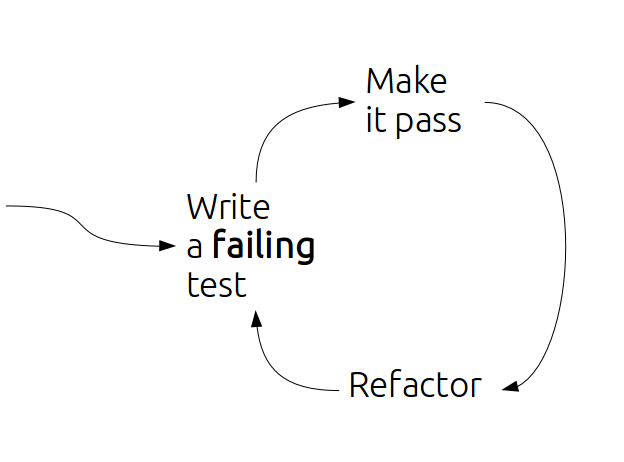
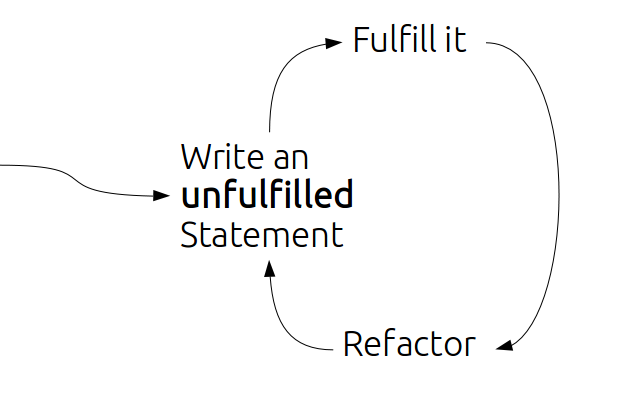
tweaking rakefile

diff --git a/index.html b/index.html
@@ -1,4 +1,4 @@
-<html><head><meta http-equiv="Content-Type" content="text/html;charset=utf-8" /><link href="style.css" rel="stylesheet" type="text/css" /></head><body><div class="calibre" id="calibre_link-13">
+<html><head><meta http-equiv="Content-Type" content="text/html;charset=utf-8" /><link href="style.css" rel="stylesheet" type="text/css" /></head><body><div class="calibre" id="calibre_link-0">
   <h1 class="calibre1">Dedications</h1>
 
   <p class="calibre2"><i class="calibre3">Ad Deum qui laetificat iuventutem meam.</i></p>
@@ -7,7 +7,7 @@
 </div>
 
 
-<div class="calibre" id="calibre_link-7">
+<div class="calibre" id="calibre_link-9">
   <h1 class="calibre1">Part 1: Just&nbsp;the basics</h1>
 
   <p class="calibre2">This is a&nbsp;part where I&nbsp;introduce the basic TDD philosophy and practices (as well as some advanced ones) without going much into object orientation and how to do TDD for systems where multiple objects collaborate together (which is a&nbsp;topic of Part 2).</p>
@@ -18,7 +18,7 @@
 </div>
 
 
-<div class="calibre4" id="calibre_link-3">
+<div class="calibre4" id="calibre_link-6">
   <h1 class="calibre1">Motivation - the first step to learning TDD</h1>
 
   <p class="calibre2">So, you want to learn TDD, huh? First off, let me ask a&nbsp;question ‘why?’.</p>
@@ -53,7 +53,7 @@
 </div>
 
 
-<div class="calibre4" id="calibre_link-1">
+<div class="calibre4" id="calibre_link-3">
   <h1 class="calibre1">The three most essential tools</h1>
 
   <p class="calibre2">Ever watched Karate Kid, either the old version or the new one? The thing they have in common is that when the kid starts learning Karate (or Kung-Fu) from his master, he is given a&nbsp;basic, repetitive task (like taking off a&nbsp;jacket, and putting it on again), not knowing yet where it would lead him. Or look at the first Rocky film (yeah, the one starring Sylvester Stallone), where Rocky was chasing a&nbsp;chicken in order to train agility.</p>
@@ -499,7 +499,7 @@ private Fixture any = new Fixture();
 </div>
 
 
-<div class="calibre4" id="calibre_link-5">
+<div class="calibre4" id="calibre_link-7">
   <h1 class="calibre1">It is not a&nbsp;test</h1>
 
   <p class="calibre2">Up to now, I&nbsp;was cheating on you. I&nbsp;told you that the little executable snippets of code are ‘tests’ and that they’re here to ‘check’ or ‘verify’ something. Now it is time to reveal the truth.</p>
@@ -600,7 +600,7 @@ Assert.True(reporting.CanBePerformedBy(anyPowerUser));
 </div>
 
 
-<div class="calibre4" id="calibre_link-9">
+<div class="calibre4" id="calibre_link-11">
   <h1 class="calibre1">Statement-First programming</h1>
 
   <h2 id="calibre_link-37" class="calibre5">What is The Point of Writing Specification After The Fact?</h2>
@@ -613,11 +613,11 @@ Assert.True(reporting.CanBePerformedBy(anyPowerUser));
 
   <p class="calibre2">Reading so much about cycles, it is probably no surprise to you that the traditional illustration of the TDD process is modeled visually as a&nbsp;circle-like flow:</p>
 
-  <p class="calibre2"><img alt="Traditional_TDD_cycle" src="images/000003.png" class="calibre7" /></p>
+  <p class="calibre2"><img alt="Traditional_TDD_cycle" src="images/000002.png" class="calibre7" /></p>
 
   <p class="calibre2">Note that the above form uses the traditional terminology of TDD, so before I&nbsp;explain the steps, I&nbsp;will translate it to use our terms of Specification and Statements:</p>
 
-  <p class="calibre2"><img alt="Modern_TDD_cycle" src="images/000004.png" class="calibre7" /></p>
+  <p class="calibre2"><img alt="Modern_TDD_cycle" src="images/000003.png" class="calibre7" /></p>
 
   <p class="calibre2">The second version seems more like common sense than the first one - specifying how something should behave before putting that behavior in place is way more intuitive than testing something that does not exist.</p>
 
@@ -1746,7 +1746,7 @@ ShouldDisplayOnlyOneZeroDigitWhenItIsTheOnlyEnteredDigitEvenIfItIsEnteredMultipl
 </div>
 
 
-<div class="calibre4" id="calibre_link-10">
+<div class="calibre4" id="calibre_link-13">
   <h1 class="calibre1">How to start?</h1>
 
   <p class="calibre2">Whenever I&nbsp;sat down with a&nbsp;person that was about to write their first code in a&nbsp;Statement-first manner, the person would first stare at the screen, then at me, then would say: “what now?”. It is easy to say: “You know how to write code, you know how to write a&nbsp;unit test for it, just this time start with the latter rather than the first”, but for many people, this is something that blocks them completely. If you are one of them, do not worry - you are not alone. I&nbsp;decided to dedicate this chapter solely to techniques for kicking off a&nbsp;Statement when there is no code.</p>
@@ -2106,7 +2106,7 @@ public void TODO()
 </div>
 
 
-<div class="calibre4" id="calibre_link-12">
+<div class="calibre4" id="calibre_link-16">
   <h1 class="calibre1">How is TDD about analysis and what does “GIVEN-WHEN-THEN” mean?</h1>
 
   <h2 id="calibre_link-64" class="calibre5">Is there really a&nbsp;commonality between analysis and TDD?</h2>
@@ -2295,7 +2295,7 @@ public void ShouldThrowExceptionWhenAskedToStoreNull()
 </div>
 
 
-<div class="calibre4" id="calibre_link-8">
+<div class="calibre4" id="calibre_link-10">
   <h1 class="calibre1">Developing TDD style and Constrained Non-Determinism</h1>
 
   <p class="calibre2">In one of the first chapters, I&nbsp;introduced to you the idea of anonymous values generator idea, which I&nbsp;have wrapped in a&nbsp;static class called <code class="calibre11">Any</code>. Throughout the next chapters, you have seen me using it quite extensively in many of the Statements I&nbsp;wrote.</p>
@@ -2548,7 +2548,7 @@ var anonymousInteger = fixture.Create&lt;int&gt;();</pre>
 </div>
 
 
-<div class="calibre4" id="calibre_link-16">
+<div class="calibre4" id="calibre_link-4">
   <h1 class="calibre1">What is the scope of a&nbsp;unit-level Statement in TDD?</h1>
 
   <p class="calibre2">Ha, now I&nbsp;have to admit that I&nbsp;deferred for a&nbsp;long time an answer to a&nbsp;pretty fundamental question: what should be the scope of a&nbsp;single Statement? If I&nbsp;put the whole system together, can I&nbsp;write a&nbsp;Statement for its behavior? Or maybe the other way round - there should be a&nbsp;Statement for each method of each class, including the private ones? Well, first thing I&nbsp;want to explain is that there are multiple levels we can write our Statements on. This varies depending on the TDD authority, but in this book, we will cover two of such levels - unit level and acceptance level. For now, let us stick to the unit level, which is what we have done so far anyway. The time will come for the rest.</p>
@@ -2657,7 +2657,7 @@ ShouldReportItIsStartedAndItDoesNotYetTransmitVoiceWhenItStarts()
 </div>
 
 
-<div class="calibre4" id="calibre_link-11">
+<div class="calibre4" id="calibre_link-14">
   <div class="disclaimer">
     <h3 class="sigilnotintoc2">A Disclaimer</h3>
 
@@ -3277,7 +3277,7 @@ public int SumOfElements()
 </div>
 
 
-<div class="calibre4" id="calibre_link-4">
+<div class="calibre4" id="calibre_link-12">
   <h1 class="calibre1">Part 2: Test-Driven Development in Object Oriented World</h1>
 
   <p class="calibre2">Most of the examples I&nbsp;gave you during the previous part were about a&nbsp;single object that did not have dependencies on other objects (with an exception of some values - strings, integers, enums etc.). This is not how a&nbsp;real OO systems are built. In this part, we are finally going to look at scenarios where multiple objects collaborate together as a&nbsp;system.</p>
@@ -3292,7 +3292,7 @@ public int SumOfElements()
 </div>
 
 
-<div class="calibre4" id="calibre_link-6">
+<div class="calibre4" id="calibre_link-8">
   <h1 class="calibre1">On Objects Composability</h1>
 
   <p class="calibre2">In this chapter, I&nbsp;will try to outline briefly why objects' composability is a&nbsp;goal worth achieving and how it can be achieved. I&nbsp;am going to start with an example of unmaintainable code and will gradually fix its flaws in the next chapters. For now, we are going to fix just one of the flaws, so the code we will end up will not be perfect by any means, still, it will be better by one quality.</p>
@@ -3592,7 +3592,7 @@ public class CompanyPolicies
 </div>
 
 
-<div class="calibre4" id="calibre_link-0">
+<div class="calibre4" id="calibre_link-1">
 <h1 class="calibre1">Telling, not asking</h1>
 
 <p class="calibre2">In this chapter, we'll get back to Johnny and Benjamin as they introduce another change in the code they were given. In the process, they discover the impact that return values and getters have on composability of objects.</p>
@@ -3903,14 +3903,14 @@ if(employee.GetYearsOfService() == 5)
 </div>
 
 
-<div class="calibre" id="calibre_link-14">
+<div class="calibre" id="calibre_link-2">
   <p class="calibre2">&nbsp;1. combinatorial explosion</p>
 
   <p class="calibre2">2. too many classes specified at once</p>
 </div>
 
 
-<div class="calibre4" id="calibre_link-2">
+<div class="calibre4" id="calibre_link-5">
   <ol class="calibre12">
     <li class="calibre13">Need driven development and the principle of least astonishment (perspective of use)</li>
 

diff --git a/style.css b/style.css
@@ -1,3 +1,8 @@
+@page {
+    margin-bottom: 5pt;
+    margin-top: 5pt
+    }
+
 .achievement {
     border-bottom-color: #E1A60A;
     border-bottom-style: double;
@@ -293,10 +298,5 @@
     }
 .pcalibre:before {
     content: "Achievement: "
-    }
-
-@page {
-    margin-bottom: 5pt;
-    margin-top: 5pt
     }
 
